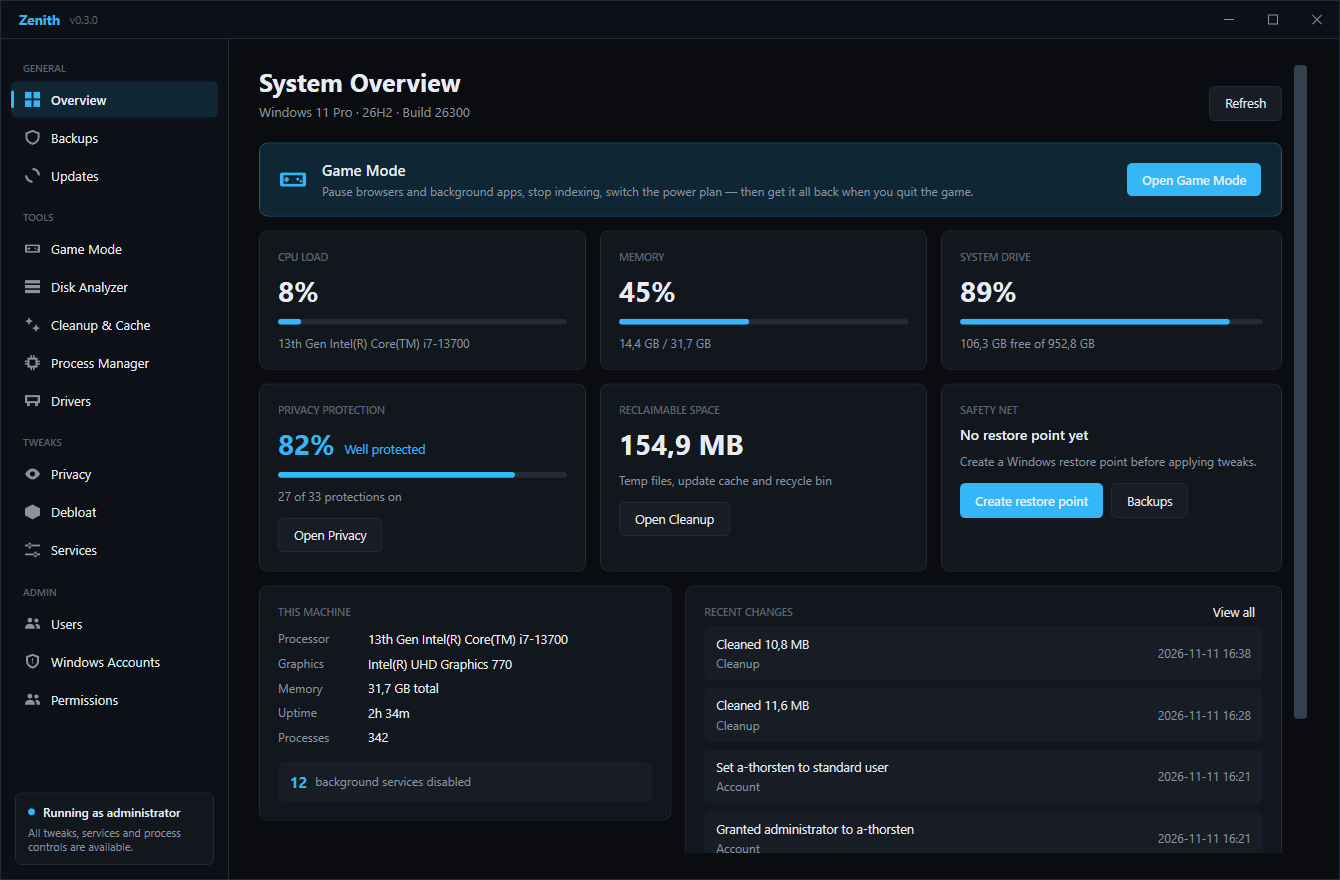
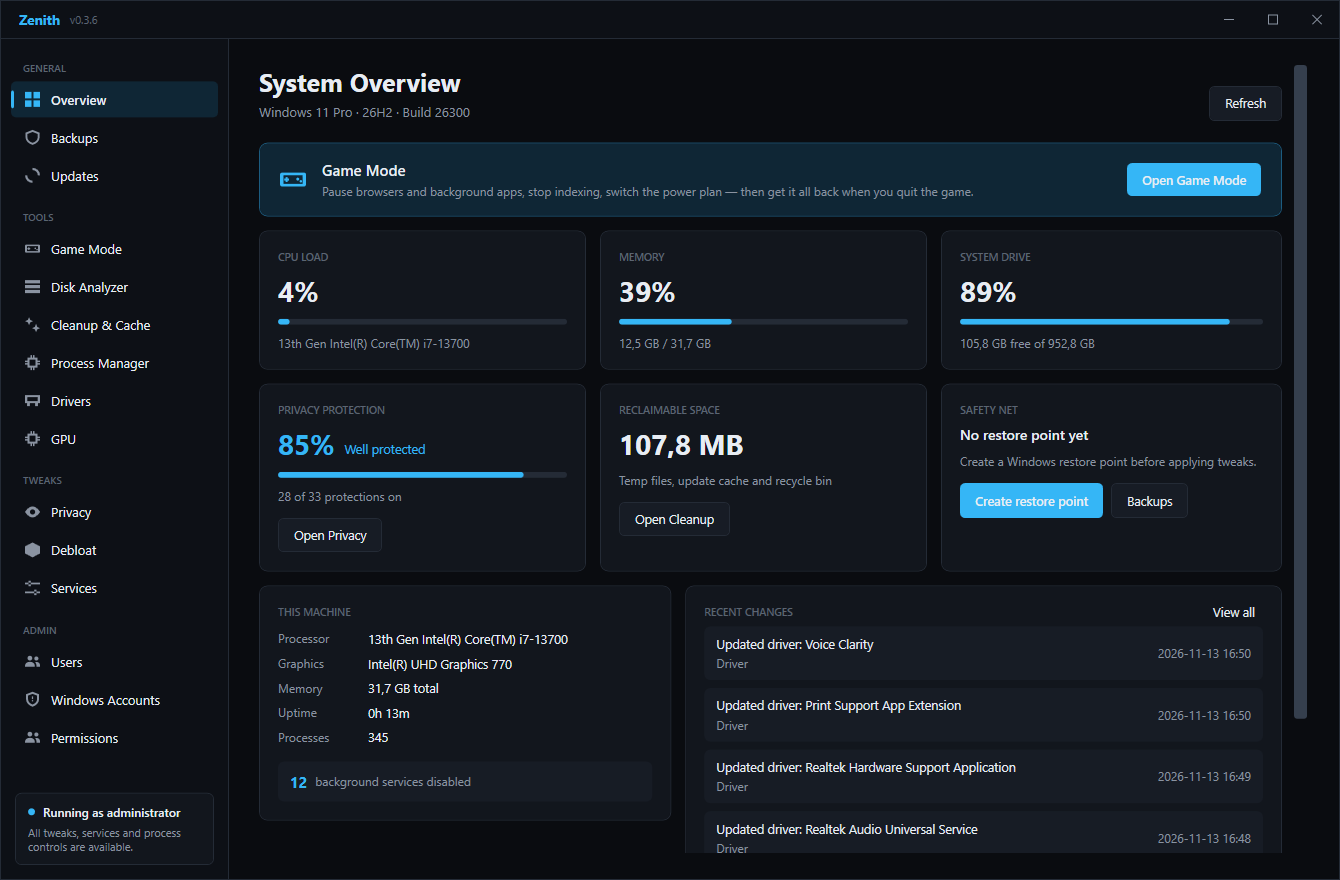
README: frische Screenshots (v0.3.6) + GPU/Drivers-Text aktualisiert

diff --git a/README.md b/README.md
@@ -34,12 +34,12 @@ Zenith bündelt die Dinge, für die man sonst fünf verschiedene Tools (oder ein
 | Modul | Was es macht |
 |---|---|
 | 🎮 **Game Mode** | Pausiert/drosselt Hintergrund‑Apps & ‑Dienste, schaltet den Energieplan um — und stellt beim Beenden alles zurück. Anti‑Cheat, Audio, GPU‑Treiber & Launcher werden **nie** angefasst. |
-| 🎚 **GPU** | GPU‑Infos & Live‑Auslastung, ein echter 3D‑Benchmark (Avg‑ & 1 %‑Low‑FPS) und FPS‑Profile (Competitive / Balanced / Light) — passt sich an deine Grafikkarte an. |
+| 🎚 **GPU** | GPU‑Infos & Live‑Auslastung (inkl. VRAM), ein echter 3D‑Benchmark mit wählbarer Länge & Intensität (Avg‑, 1 %‑ & 0,1 %‑Low‑FPS) und FPS‑Profile (Competitive / Balanced / Light). Kann die App auf Laptops auf die **dedizierte GPU** zwingen. |
 | 🛡 **Privacy** | Schaltet Telemetrie, Werbe‑ID, Aktivitätsverlauf, Game‑Bar‑Overlay u. v. m. ab. |
 | 🧹 **Cleanup & Cache** | Temp‑Dateien, Update‑Cache und Papierkorb — zeigt vorher, was freigeräumt wird. |
 | 💽 **Disk Analyzer** | Findet die größten Platzfresser auf der Platte. |
 | ⚙ **Process Manager** | Prozesse ansehen, Priorität/Affinität setzen, beenden. |
-| 🧩 **Drivers** | Treiber‑Inventar + Suche nach Updates — rein über Windows‑Bordmittel. |
+| 🧩 **Drivers** | Vollständiges Treiber‑Inventar nach Kategorie + Suche nach Updates — rein über Windows‑Bordmittel. |
 | 📦 **Debloat** | Entfernt vorinstallierten Windows‑Ballast. |
 | 🔧 **Services** | Windows‑Dienste gezielt steuern. |
 | ⏪ **Backups / Revert** | Jede Änderung landet im Journal und lässt sich zurücknehmen. |
@@ -52,6 +52,12 @@ Zenith bündelt die Dinge, für die man sonst fünf verschiedene Tools (oder ein
 
 <div align="center">
 <img src="assets/gpu.png" alt="GPU & Benchmark" width="88%" />
+</div>
+
+<br/>
+
+<div align="center">
+<img src="assets/drivers.png" alt="Drivers" width="88%" />
 </div>
 
 ---
